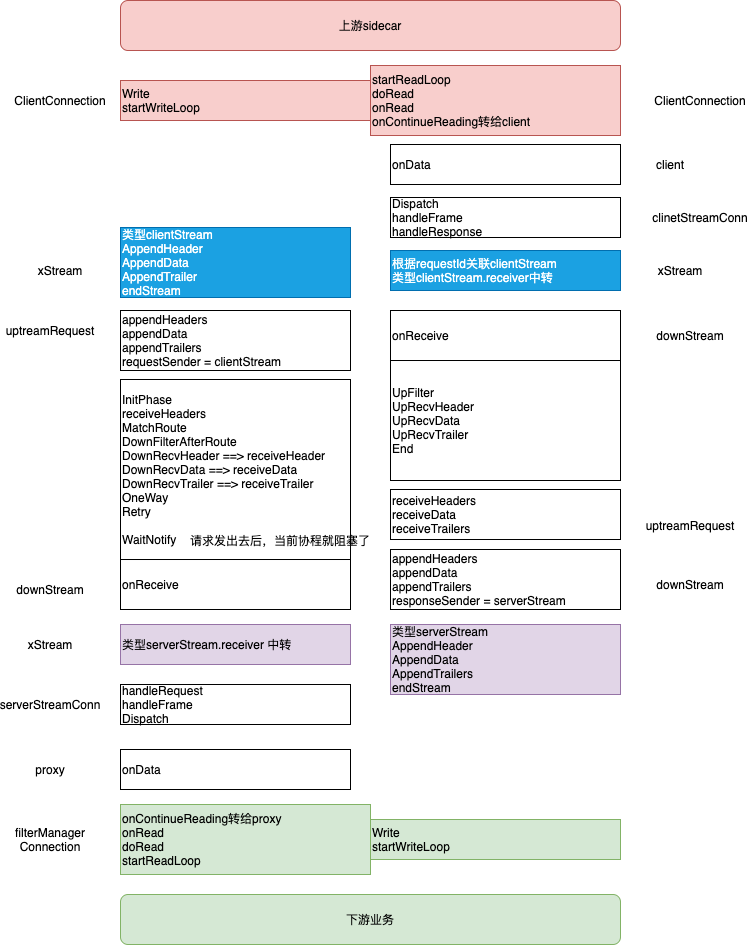
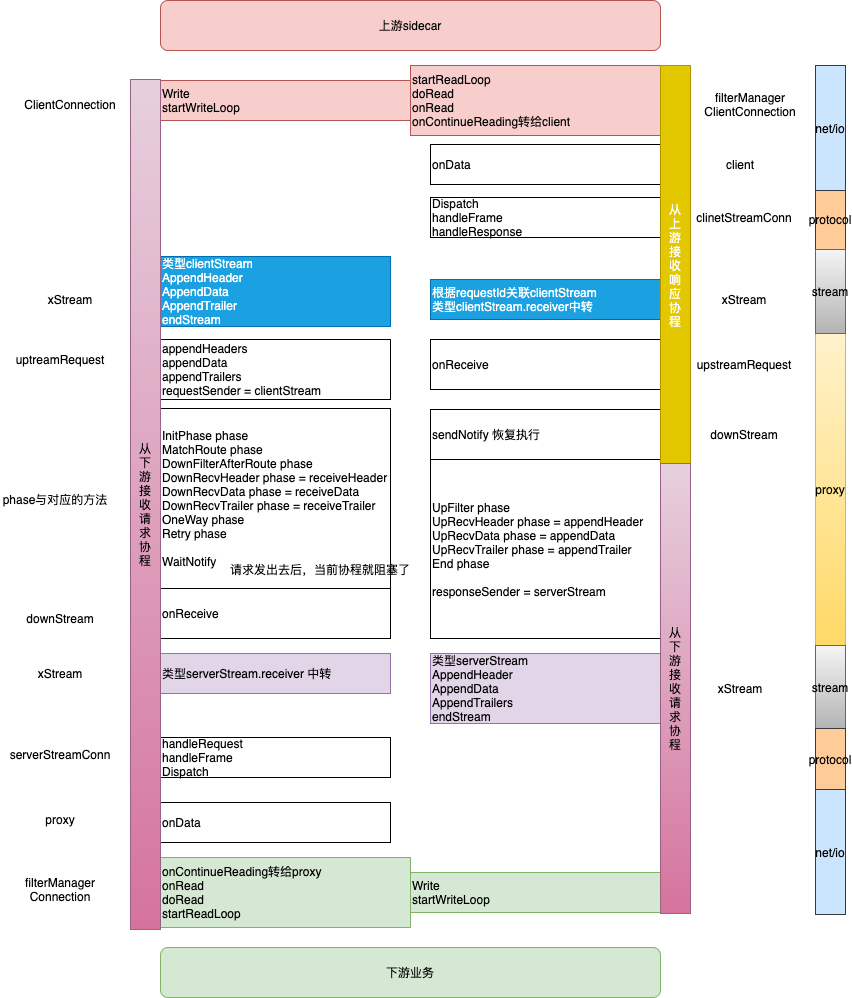
[fix]

diff --git a/_posts/Technology/Mesh/2019-12-21-mosn_source.md b/_posts/Technology/Mesh/2019-12-21-mosn_source.md
@@ -180,25 +180,19 @@ mosn.io/mosn/pkg
 3. MOSN 从 upstream(conn=5) 接收了一个响应 response，依据报文扩展多路复用接口 GetRequestId 获取到请求在这条连接上的身份标识(requestId=30)。此时可以从上下游关联映射表中，根据 upstream 信息(connId=5, requestId=30) 找到对应的 downstream 信息(connId=2, requestId=1)；
 4. 依据 downstream request 的信息，调用文扩展多路复用接口 SetRequestId 设置响应的 requestId，并回复给 downstream；
 
-L7 层多用复用转发逻辑：proxy.onData ==> xprotocol.serverStreamConnection.Dispatch ==> xprotocol.streamConn.handleFrame ==> xprotocol.streamConn.handleRequest/handleResponse ==> proxy.NewStreamDetect 创建了 downStream ==> downStream.OnReceive ==> downStream.receive ==> downStream.matchRoute ==> downStream.chooseHost 确定下游主机 ==> downStream.receiveHeaders/receiveData/receiveTrailers ==> upstreamRequest.receiveHeaders/receiveData/receiveTrailers 转发结束。 **网络数据 从字节数组都frame 再到协议对象 都是实际存在的，Connection/StreamConnection/Stream 则都是 通信两端 为维护数据状态 而产生的**。
+[MOSN 源码解析 - 协程模型](https://mosn.io/zh/blog/code/mosn-eventloop/)
 
-省略一下
-```
-proxy.onData ==> proxy.NewStreamDetect
-downStream.OnReceive 执行filter route 及 choose 下游节点
-upstreamRequest 发送到下游
-```
+mosn 作为一个七层代理，其核心工作就是转发，L7 层转发支持http、http2  和针对微服务场景xprotocol。 
+1. mosn proxy **架设了基于多路复用/Stream机制的转发**：多路复用由Stream 概念表示，一个 请求/响应 对应多个frame（至少包含header 和 data 2个frame）。哪怕http 不是多路复用也 迁就了这一套约定。在proxy包中，转发逻辑由 downstream.go 和 upstream.go 完成，**各个协议不需要自己实现转发逻辑，只需要向 mosn 的Stream 机制靠拢即可**：实现ServerStreamConnection 和 ClientStreamConnection interface
+2. 对于微服务框架，xprotocol 进一步的封装了功能代码，各rpc 协议只需实现xprotocol.XProtocol interface。
 
-L4及L7合并后的 转发逻辑如下
+![](/public/upload/mesh/mosn_process.png)
 
-```
-activeListener.Start ==> activeListener.OnAccept ==> activeListener.OnNewConnection
-connection.Start ==> connection.onRead
-filterManager.OnRead
-proxy.onData ==> proxy.NewStreamDetect   L4 层引出 Stream 多路复用机制
-downStream.OnReceive 执行filter route 及 choose 下游节点
-upstreamRequest 发送到下游
-```
+从下游接收请求 handleRequest：proxy.onData ==> xprotocol.streamConn(serverStreamConnection).Dispatch ==> xprotocol.streamConn.handleFrame ==> xprotocol.streamConn.handleRequest ==> create serverStream(xStream) 并关联 downStream ==> downStream.OnReceive ==> downStream.receive ==> downStream.matchRoute ==> downStream.chooseHost 确定下游主机 ==> downStream.receiveHeaders/upstreamRequest.appendHeaders/xprotocol.xStream.AppendHeaders ==> downStream.receiveData/upstreamRequest.appendData/xprotocol.xStream.AppendData ==>  downStream.receiveTrailers/upstreamRequest.appendTrailers/xprotocol.xStream.AppendTrailers ==> xprotocol.xStream.endStream ==> buf = xprotocol.xStream.streamConn.protocol.Encode(frame) ==> xprotocol.xStream.streamConn.netConn.Write(buf)  转发暂停
+
+从上游接收响应 handleResponse：client.onData ==> xprotocol.streamConn(clientStreamConnection).Dispatch ==> xprotocol.streamConn.handleFrame ==> xprotocol.streamConn.handleResponse ==> clientStream = `xprotocol.streamConn.clientStreams[requestId]` ==> clientStreamReceiverWrapper.onReceive ==>  upstreamRequest.OnReceive ==> downStream.sendNotify ==>  接收协程从先前中断的地方继续 downStream.receive  ==> upstreamRequest.receiveHeaders/downStream.appendHeaders/xprotocol.xStream.AppendHeaders ==> upstreamRequest.receiveData/downStream.appendData/xprotocol.xStream.AppendData ==>  upstreamRequest.receiveTrailers/downStream.appendTrailers/xprotocol.xStream.AppendTrailers ==> xprotocol.xStream.endStream ==> buf = xprotocol.xStream.streamConn.protocol.Encode(frame) ==> xprotocol.xStream.streamConn.netConn.Write(buf)  
+
+**网络数据 从字节数组都frame 再到协议对象 都是实际存在的，Connection/StreamConnection/Stream 则都是 通信两端 为维护数据状态 而产生的**。
 
 以官方 dubbo example 运行为例： dubbo consumer  ==> client mosn `localhost:2045` ==> server mosn `localhost:2046` ==> dubbo provider `0.0.0.0:20880`
 
@@ -257,10 +251,6 @@ upstreamRequest 发送到下游
 [DEBUG] update listener write bytes: 89
 ```
 
-mosn 作为一个七层代理，其核心工作就是转发，L7 层转发支持http、http2  和针对微服务场景xprotocol。 
-1. mosn proxy **架设了基于多路复用/Stream机制的转发**：多路复用由Stream 概念表示，一个 请求/响应 对应多个frame（至少包含header 和 data 2个frame）。哪怕http 不是多路复用也 迁就了这一套约定。在proxy包中，转发逻辑由 downstream.go 和 upstream.go 完成，**各个协议不需要自己实现转发逻辑，只需要向 mosn 的Stream 机制靠拢即可**：实现ServerStreamConnection 和 ClientStreamConnection interface
-2. 对于微服务框架，xprotocol 进一步的封装了功能代码，各rpc 协议只需实现xprotocol.XProtocol interface。
-
 ![](/public/upload/mesh/mosn_overview.png)
 
 基于上述认识，[云原生网络代理 MOSN 的进化之路](https://mp.weixin.qq.com/s/5X8ZCO9a9nZE1oAMCNKVzw)我们再来看 mosn 的分层结构设计。其中，**每一层通过工厂设计模式向外暴露其接口**，方便用户灵活地注册自身的需求。
@@ -271,10 +261,6 @@ mosn 作为一个七层代理，其核心工作就是转发，L7 层转发支持
 4. Proxy 作为 MOSN 的转发框架，对封装的 stream 做 proxy 处理;
 
 ## 转发代码分析
-
-[MOSN 源码解析 - 协程模型](https://mosn.io/zh/blog/code/mosn-eventloop/)
-
-![](/public/upload/mesh/mosn_process.png)
 
 mosn 数据接收时，从`proxy.onData` 收到传上来的数据，执行对应协议的`serverStreamConnection.Dispatch` 经过协议解析， **字节流转成了协议的数据包**，转给了`StreamReceiveListener.OnReceive`。proxy.downStream 实现了 StreamReceiveListener。
 
@@ -518,7 +504,7 @@ func (s *xStream) endStream() {
 }
 ```
 
-网络层的write
+xStream.endStream 真正触发 网络数据的发送，网络层的write
 
 ```go
 func (c *connection) Write(buffers ...buffer.IoBuffer) (err error) {

diff --git a/_posts/Technology/Mesh/2020-04-16-mosn_detail.md b/_posts/Technology/Mesh/2020-04-16-mosn_detail.md
@@ -79,8 +79,6 @@ StreamConnection is a connection runs multiple streams
 }
 ```
 
-### StreamConnection 的初始化
-
 初始化相关链路：activeListener.OnAccept ==> activeRawConn.ContinueFilterChain ==> activeListener.newConnection ==> activeListener.OnNewConnection ==> genericProxyFilterConfigFactory.CreateFilterChain ==> filterManager.AddReadFilter ==> proxy.InitializeReadFilterCallbacks ==> stream.CreateServerStreamConnection
 
 ```go
@@ -237,14 +235,28 @@ mosn/pkg/protocol/xprotocol
         }
 ```
 
-### 基于多路复用的数据转发
+streamConn 承上启下，分为client 和 server两侧，持有协议、连接对象，可以创建clientSteam（且暂存） 和 serverStream
+1. server 侧，从Dispatch 接收数据，解码，创建 serverStream 关联downStream ，downStream 处理，创建针对上游的clientStream， 操作Connection 写数据到上游
+1. client 侧，从Dispatch 接收数据，解码，寻找 clientStream ，downStream 恢复处理，找到关联的serverStream， 操作Connection 写数据到下游
 
-mosn 作为一个七层代理，其核心工作就是转发，L7 层转发支持http、http2  和针对微服务场景xprotocol。 
-1. mosn proxy **架设了基于多路复用/Stream机制的转发**：多路复用由Stream 概念表示，一个 请求/响应 对应多个frame（至少包含header 和 data 2个frame）。哪怕http 不是多路复用也 迁就了这一套约定。在proxy包中，转发逻辑由 downstream.go 和 upstream.go 完成，**各个协议不需要自己实现转发逻辑，只需要向 mosn 的Stream 机制靠拢即可**：实现ServerStreamConnection 和 ClientStreamConnection interface
-2. 对于微服务框架，xprotocol 进一步的封装了功能代码，各rpc 协议只需实现xprotocol.XProtocol interface。
+```go
+// mosn.io/mosn/pkg/stream/xprotocol/conn.go
+type streamConn struct {
+    ctx        context.Context
+    ctxManager *stream.ContextManager
 
-proxy.onData ==> xprotocol.serverStreamConnection.Dispatch ==> xprotocol.streamConn.handleFrame ==> xprotocol.streamConn.handleRequest/handleResponse ==> proxy.NewStreamDetect 创建了 downStream ==> downStream.OnReceive ==> downStream.receive ==> downStream.matchRoute ==> downStream.chooseHost 确定下游主机 ==> downStream.receiveHeaders/receiveData/receiveTrailers ==> upstreamRequest.receiveHeaders/receiveData/receiveTrailers 转发结束
-
+	netConn    api.Connection               // 底层连接
+	engine   *xprotocol.XEngine             // xprotocol fields
+	protocol xprotocol.XProtocol
+    // server side fields
+	serverCallbacks types.ServerStreamConnectionEventListener 
+    // client side fields
+	clientMutex        sync.RWMutex                           
+	clientStreamIDBase uint64
+	clientStreams      map[uint64]*xStream
+	clientCallbacks    types.StreamConnectionEventListener
+}
+```
 ## 连接池管理
 
 [云原生网络代理 MOSN 的进化之路](https://mp.weixin.qq.com/s/5X8ZCO9a9nZE1oAMCNKVzw)为了提升服务网格之间的建连性能还设计了多种协议的连接池从而方便地实现连接复用及管理。在连接管理方面，MOSN 设计了多协议连接池， 当 Proxy 模块在 Downstream 收到 Request 的时候，在经过路由、负载均衡等模块处理获取到 Upstream Host 以及对应的转发协议时，通过 Cluster Manager 获取对应协议的连接池 ，如果连接池不存在则创建并加入缓存中，之后在长连接上创建 Stream，并发送数据
